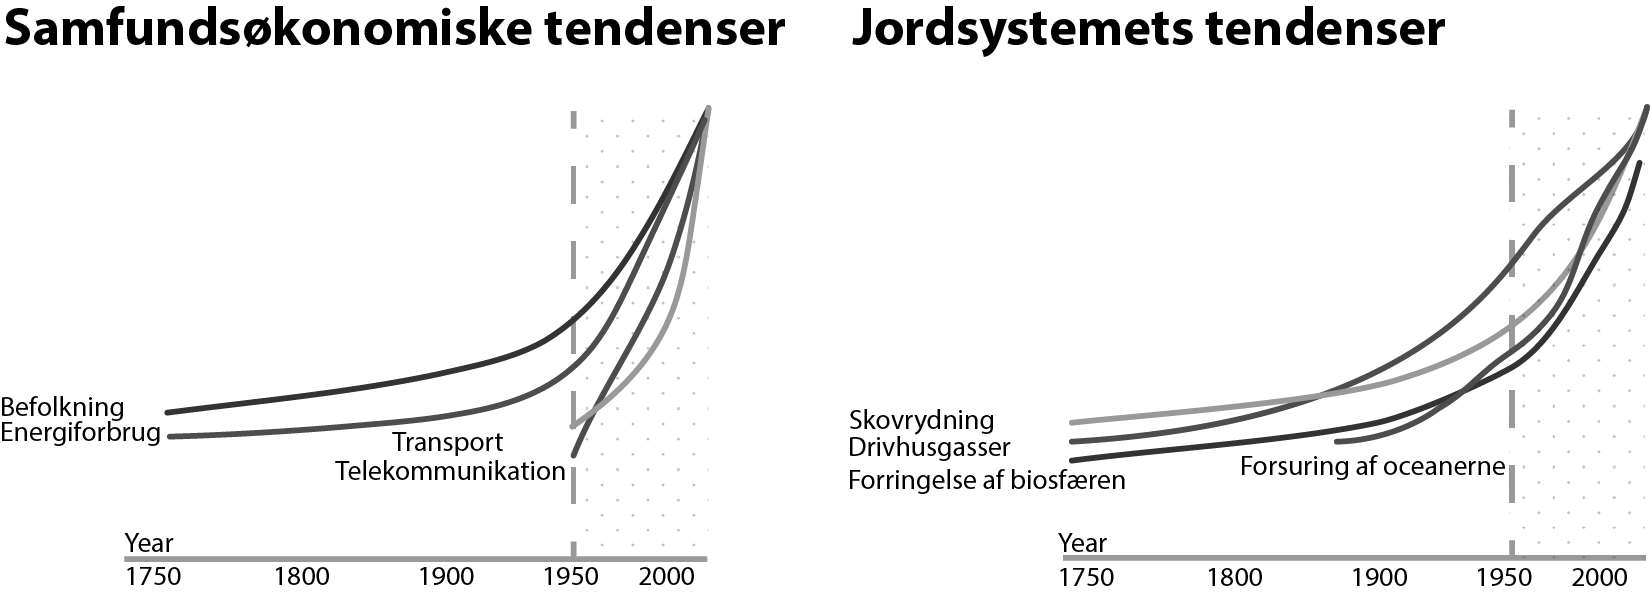
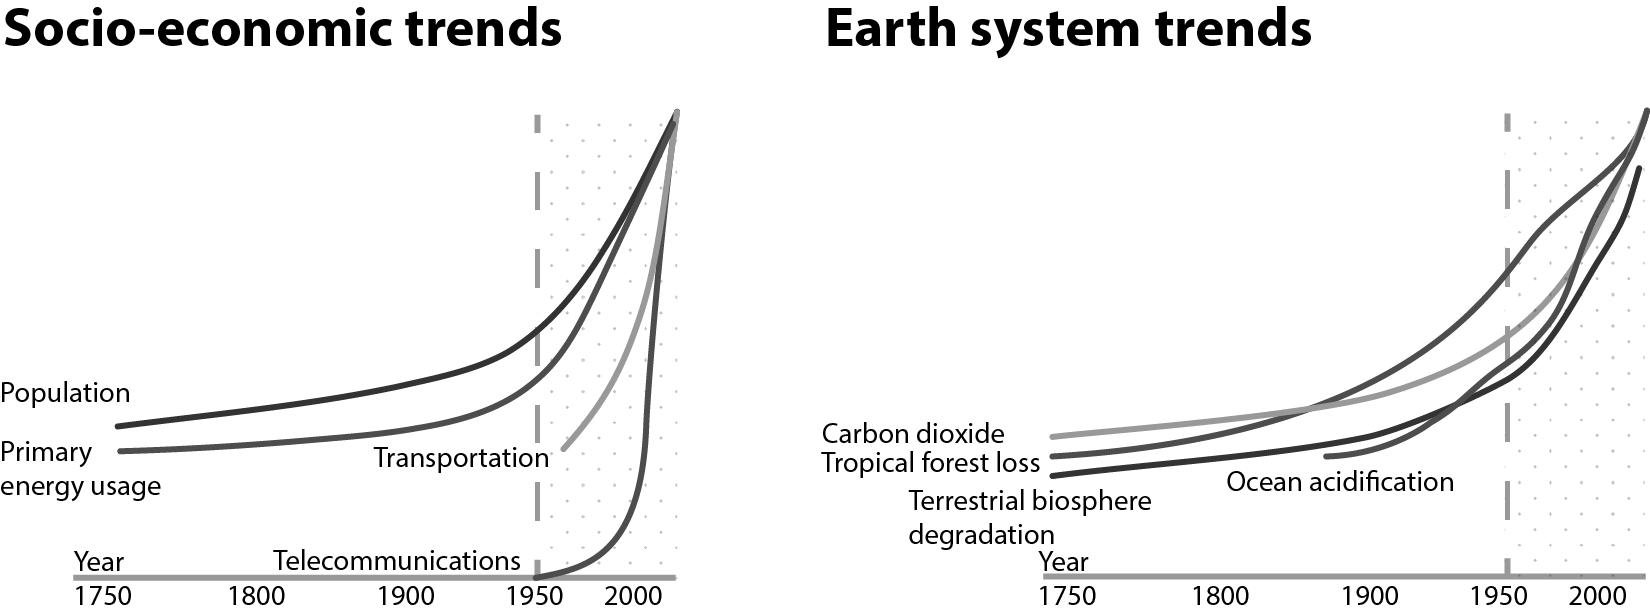
Working on chapter one

diff --git a/manuscript/1-Introduction-to-sustainability.md b/manuscript/1-Introduction-to-sustainability.md
@@ -1,46 +1,47 @@
 # 1. Sustainability: Basic concepts
 
-In order to base our digital work on solid and proven science, we need to understand some selected fundamental concepts of sustainability. In this first chapter, we'll cover key ideas and establish a foundational vocabulary that can enrich our sustainability work.
+In order to base your sustainability work on solid and proven science, you must first understand some selected basic concepts. This first chapter covers the key ideas and vocabulary.
 
-The ambition of the chapter is to give you insight into the great complexity that you must be able to handle when working with sustainability. The concepts span many different scientific disciplines, including biology, geology, physics, chemistry, law, economics and social sciences. When working with sustainability, these different areas are intertwined, which requires a holistic approach from those of us working with the digital aspects of sustainability.  
- 
+The goal of this chapter is to give you a glimpse of the great complexity which we must be able to handle when working with sustainability. The concepts span many different scientific disciplines, including biology, geology, physics, chemistry, law, economics, and social sciences. 
+
+When working with sustainability, these different disciplines are intertwined, requiring a holistic approach from those of us working with the digital aspects of sustainability.
 ## Why is sustainability important right now?
 
-### The age of the Anthropocene
-The Anthropocene is the name given to the epoch from the 20th century onwards, where human activities are now affecting life on Earth to such an extent that it is causing both local and global changes in the state of the Earth.  The human emission of greenhouse gases is a case in point. The consequences are enormous for soil, plant and animal life, and thus also human life.
+Let's go through some weighty theories that empasize the urgency of taking action for sustainability in all areas, including the digital.
+### 🛣️ This is the age of the Anthropocene
+The Anthropocene is the name of en epoch, beginning in the 20th century, in which human activities are affecting life on Earth to such an extent that they are causing both local and global changes in the global state of the Earth.  
 
-In the past, geological processes had the greatest influence on life on Earth and the shape of the planet, but our agriculture, buildings, roads, wars, excavations and other activities are changing the landscape to a degree comparable to the major geological impacts on Earth in the past, such as major volcanic eruptions and meteor impacts. The Anthropocene Age heralds new times where humanity is not only responsible for its own future, but also holds the future of the entire planet in its hands.
+In the past, geological processes had the greatest influence on life on Earth and the properties of the planet surface, but our agriculture, buildings, roads, wars, excavations and other activities are changing the landscape. 
 
-### Sixth great mass extinction
-In biology and ecology, we are also witnessing a historical and global event that scientists call the sixth great mass extinction , a process in which the majority of the Earth's different animal species go extinct (within centuries). This can be compared to the period when the dinosaurs went from being the dominant species on Earth to mass extinction.
+This change is comparable to the major geological impacts on Earth in the past, such as major volcanic eruptions and meteor impacts. The Anthropocene Age heralds new times where humanity is not only responsible for its own future, but also holds the future of the entire planet in its hands.
 
-The Sixth Great Extinction is expected to be as pervasive for nature as the dinosaur extinction was, with the risk that a third of all animal species could disappear (Urban 2024). As with the Anthropocene Age, human activity is also the cause of the sixth great mass extinction. This too is happening right now.
-### The Great Acceleration
+The human emission of greenhouse gases is one example, and the consequences for soil, plant and animal life, and thus for human life, are enormous.
+### Sixth  mass extinction on the horizon 🦖
+In biology and ecology, we are also witnessing a historic and global event that scientists describe as the sixth great mass extinction, a process in which a great part of the Earth's different animal species become extinct within decades or centuries. The time we live in can be compared to the time when the dinosaurs went from being the dominant species on Earth to mass extinction.
+
+The sixth mass extinction is expected to be as pervasive for nature as the dinosaur extinction was, with the risk that a third of all animal species could disappear ([Urban 2024](https://www.science.org/doi/10.1126/science.adp4461)). As with the Anthropocene Age, human activity is also the cause of the sixth great mass extinction. This too is happening right now.
+### 🏎️ We are pushing the Great Acceleration 
 
 ![The Great Acceleration](resources/1.1.png "The Great Acceleration is the theory that we live in a time when many different global trends are accelerating at an unprecedented rate. Notice how development takes off after the 1950s. Source: Steffen et al. 2015.")
 
-Some scientists believe that global change began with industrialization in the 1800s, but only accelerated after the 1950s. That global change is accelerating and that we are accelerating the activities that are changing our planet, such as the release of greenhouse gases and the destruction of various biotopes (Steffen et al. 2015).
+Some scientists theorize, that a global change began with industrialization in the 1800s, and accelerated rapidly after the 1950s. Global change is accelerating and  we are accelerating the activities that are changing our planet, such as the release of greenhouse gases and the destruction of various biotopes ([Steffen et al. 2015](https://doi.org/10.1177/2053019614564785)).
 
-The theory is called the Great Acceleration , and the researchers behind the theory see the Earth as a system , where everything is connected and where one change requires another, as shown in Figure 1. Over the past many thousands of years, the Earth's systems have been able to balance between states that were mainly favorable to life on Earth, but many fear that the Earth's systems will become seriously out of balance if we continue to accelerate development.
+This theory is called the Great Acceleration, and the researchers behind the theory see the Earth as a system where everything is interconnected and one change escalates another, as shown in Figure 1. Over the past many thousands of years, the Earth's systems have been able to balance between states that have been mostly favorable to life on Earth, but many fear that the Earth's systems will become seriously out of balance if we continue to accelerate development.
+### Pushing the planetary boundaries 🌎 
+The world's population is growing, our industrial activity and consumption is growing, and economies are also growing year after year - but the planet's size and resources limit this perpetual growth. Planetary boundaries is a concept developed by researchers from Stockholm University that describes the nine major planetary subsystems that regulate the Earth's systemic stability and resilience ([Stockholm Resilience Centre 2012](https://www.stockholmresilience.org/research/planetary-boundaries.html)).
 
-### The planetary boundaries
-The world's population is growing, our industrial activity and consumption is growing, and economies are also growing year after year - but the planet's size and resources limit this perpetual growth.
+Scientists have estimated limits for Earth's planetary subsystems in which humanity can continue to evolve and thrive for generations to come, without causing irreparable damage to Earth as we know it. If the limits are exceeded, the systems may become unbalanced, leading the planet to a new and different reality. 
 
-Planetary boundaries is a concept developed by researchers from Stockholm University that describes the nine major planetary subsystems that regulate the Earth's systemic stability and resilience ( Stockholm Resilience Centre 2012 ).
-
-Scientists have estimated thresholds for these planetary subsystems within humanity can continue to evolve and thrive for generations to come, without causing irreparable damage to Earth as we know it.
-
-If the limits are exceeded, systems can become unbalanced, resulting in the planet changing to a new and different reality. Developments in recent decades show that we are unfortunately exceeding more and more of these limits for sustainable global development and that there is a risk of serious global repercussions if we do not start respecting these limits as soon as possible.
-
-### Climate change
-Current global development is neither durable nor sustainable. In the coming decades, we must turn all industrial (and digital) development in a sustainable direction to enable people to live the good life. We must be able to continuously improve and expand our world without fearing the long-term consequences of our actions in the form of drought, flooding, destruction of rainforests and landscapes, major political challenges, displacement, loss of life. We have an ethical obligation to protect the nature that is our origin and our future.
+Developments in recent decades show that, unfortunately, we are increasingly exceeding these limits for sustainable global development, and that there is a risk of serious global consequences if we do not begin to respect these limits as soon as possible.
+### Climate change 🌪️
+Current global development is neither durable nor sustainable. In the coming decades, we must turn all industrial (and digital) development in a sustainable direction to enable people to live a good life. We must be able to continuously improve and develop our world without fearing the long-term consequences of our actions in the form of droughts, floods, destruction of rainforests and landscapes, major political challenges, migration, and loss of life. We have an ethical obligation to protect nature, which is our origin and our future.
 
 With the help of scientists who continuously monitor this trend, a number of actions are underway globally that aim to change the trend to something more sustainable. But we will need every effort. That's why it's important that we incorporate sustainability into all our activities - including digital ones.
 
 ### Information technology and digitization
 Information technology and digitization are amazing entities that day after day surprise us with the latest inventions, opportunities and challenges, shedding light on new aspects of our everyday lives - and our existence.
 
-Social media, virtual worlds, sensor networks, autonomous agents, artificial intelligence, generative AI, machine learning, Internet of Things (IoT ), data science.. All these IT concepts have emerged in recent years and are still evolving - while changing our world.
+Social media, virtual worlds, sensor networks, autonomous agents, artificial intelligence, generative AI, machine learning, Internet of Things (IoT), data science.. All these IT concepts have emerged in recent years and are still evolving - while changing our world.
 
 Modern IT is accelerating science and research, and the computing power of processors and the efficiency of algorithms is growing year after year. It is now the pace of human cognition that is limiting the speed of development.
 
@@ -65,9 +66,9 @@ We can see sustainability as a path towards a brighter and more stable world bot
 
 Sustainable development helps us avoid major disasters in the future by addressing problems in the present. That's why sustainability requires action from us today, both for the future, for ourselves and for the world around us.
 
-There are different definitions of sustainability, but one of the newer and more recognized definitions comes from the UN , which in 1983 established a World Commission on Environment and Development headed by the then Norwegian Prime Minister Gro Harlem Brundtland. The Commission's work resulted in a publication entitled Our Common Future - The Brundtland Commission Report on Environment and Development. 
+There are different definitions of sustainability, but one of the newer and more recognized definitions comes from the UN, which in 1983 established a World Commission on Environment and Development headed by the then Norwegian Prime Minister Gro Harlem Brundtland. The Commission's work resulted in a publication entitled Our Common Future - The Brundtland Commission Report on Environment and Development. 
 
-The report defines sustainable development as *"development that meets the needs of the present without compromising the ability of future generations to meet their own needs"* (Brundtland Commission 1987: XX ). This definition is a good starting point for our work, but in the following we will also look at sustainable development from other angles. If sustainability is something that protects the possibilities of future generations, what is the opposite? Let's take a look at "unsustainability".
+The report defines sustainable development as *"development that meets the needs of the present without compromising the ability of future generations to meet their own needs"* (Brundtland Commission 1987: XX). This definition is a good starting point for our work, but in the following we will also look at sustainable development from other angles. If sustainability is something that protects the possibilities of future generations, what is the opposite? Let's take a look at "unsustainability".
 ### Unsustainability
 Unsustainable products and services are defined by the fact that they often have serious, unwanted and far-reaching adverse impacts.
 
@@ -104,7 +105,7 @@ Let's look at an example from the digital world where the above comes to life: a
 
 The extraction of the minerals used in smartphones involves environmental pollution, child labor, deforestation and health problems associated with working in mines in Africa. Assembly line work in Asia can take place in poor working conditions. Not least, the applications that run on smartphones can have a bad impact on smartphone users. But this is not something we think about. When owning a smartphone has become commonplace, it's hard to consider the long-term consequences because it's relatively vague and far removed from your own reality. So it's easier not to think about it.
 
-In an ideal world, the manufacturer and legislation would try to concretize the resulting problems and try to do something about them. The Dutch smartphone manufacturer Fairphone , for example, does this by visiting the cobalt mines in Congo and launching a program to improve working conditions in the mines based on their experiences during the visit (Angela 2023). Are they obligated to do so? No, they are not. They are doing it primarily for the sake of the Congolese, and in return, Fairphone can position its smartphone as a greener and fairer phone. However, these actions are not free and their phones are therefore relatively expensive compared to the competition.
+In an ideal world, the manufacturer and legislation would try to concretize the resulting problems and try to do something about them. The Dutch smartphone manufacturer Fairphone, for example, does this by visiting the cobalt mines in Congo and launching a program to improve working conditions in the mines based on their experiences during the visit (Angela 2023). Are they obligated to do so? No, they are not. They are doing it primarily for the sake of the Congolese, and in return, Fairphone can position its smartphone as a greener and fairer phone. However, these actions are not free and their phones are therefore relatively expensive compared to the competition.
 
 ### Recognizing and accepting risks for the future
 It is clear that we cannot fully guard against all future unintended consequences when developing new solutions. By its very nature, you cannot devise and develop measures against risks that you are not able to foresee.
@@ -127,7 +128,7 @@ Are Velux's initiatives really having an impact on a global scale or are they dr
 
 If Velux really succeeds in eliminating 100% of its future greenhouse gas emissions, then the window manufacturer is definitely a climate-friendly company. But that doesn't mean that the company has become a "sustainable company" overnight. The company must also address other dimensions of sustainability in order to start calling itself sustainable.
 
-When a company sends out marketing communications about its green initiatives, there is always a danger that the company's brand is portrayed as more green than it really is. It is not always easy to distinguish between sustainability projects and greenwashing , i.e. empty green promises without substance behind the communication.
+When a company sends out marketing communications about its green initiatives, there is always a danger that the company's brand is portrayed as more green than it really is. It is not always easy to distinguish between sustainability projects and greenwashing, i.e. empty green promises without substance behind the communication.
 
 In the case of Velux, is this a real environmental initiative with significant impact, or is it greenwashing ? Only time will tell.
 
@@ -139,7 +140,7 @@ Every year, in an ESG report, companies publish information on how they apply up
 
 A good example of greenwashing is "biogasoline ", which you can fill up at gas stations around the country. Here, 5% or 10% ethanol (alcohol) is mixed into the gasoline and called biogasoline, even though it is still 90-95% fossil, black gasoline. There is a lack of proportionality between the measure (mixing gasoline with ethanol) and the publicity the product receives. "Biofuel" sounds like some kind of environmentally friendly gasoline, but it's not. In reality, it's black, fossil gasoline that has been "cleaned up" with the addition of ethanol.
 
-Detecting and avoiding greenwashing is not easy , and there are proposals at EU level to eventually regulate green marketing. We hope that by the time you read this book, this work will have progressed so that greenwashing becomes less of a problem when consumers want to choose green products over "black" ones.
+Detecting and avoiding greenwashing is not easy, and there are proposals at EU level to eventually regulate green marketing. We hope that by the time you read this book, this work will have progressed so that greenwashing becomes less of a problem when consumers want to choose green products over "black" ones.
 
 ### Ecology and ecosystems
 Other important concepts in sustainability work are ecology and ecosystems . In Danish we associate the word ecology with something that can be bought in a supermarket. Nevertheless, the word ecology denotes a scientific direction that examines "the relationships between living organisms and their surroundings" (Madsen 2021). Ecology deals with systems of living organisms and their surroundings, called ecosystems.
@@ -184,11 +185,11 @@ Nature teaches us that sustainable systems are built on different cycles : cycle
 
  ![Data center](1.5.png "Data centers can operate sustainably by using renewable energy, reusing waste heat and ensuring hardware and materials are recycled. Circular solutions reduce resource consumption and contribute to a more sustainable future.")
  
-Life on earth is built on circular processes , as Figure 1.5 shows. Our ancestors for millennia followed the rhythm of nature: sowing, fertilizing, harvesting and starting over year after year. Not all production was circular, but there were few people on earth and the earth's resources such as water, forest, oil and iron seem to have been inexhaustible. It was always possible to get new supplies. Today, these supplies have come under severe pressure. We have become more human, and we are taking more of the earth's resources - and on a global scale, this is growing at a pace that is reaching planetary boundaries.
+Life on earth is built on circular processes, as Figure 1.5 shows. Our ancestors for millennia followed the rhythm of nature: sowing, fertilizing, harvesting and starting over year after year. Not all production was circular, but there were few people on earth and the earth's resources such as water, forest, oil and iron seem to have been inexhaustible. It was always possible to get new supplies. Today, these supplies have come under severe pressure. We have become more human, and we are taking more of the earth's resources - and on a global scale, this is growing at a pace that is reaching planetary boundaries.
 
-We have good reason to fear that we will run out of more and more resources if we don't get better at developing new technologies and business models based on circular processes , where the energy of raw materials is recycled. In digital practice, this can be something as simple as using renewable energy or taking responsibility for ensuring that all electronic waste is sent to companies that can effectively recycle it. In theory, the vast majority of e-scrap (e-waste) can be recycled.
+We have good reason to fear that we will run out of more and more resources if we don't get better at developing new technologies and business models based on circular processes, where the energy of raw materials is recycled. In digital practice, this can be something as simple as using renewable energy or taking responsibility for ensuring that all electronic waste is sent to companies that can effectively recycle it. In theory, the vast majority of e-scrap (e-waste) can be recycled.
 
-We can be inspired by nature when designing digital products. An effective way to create sustainable processes is through cycles , where energy and materials can circulate over and over again without anything being deposited or disappearing from the system. You could say that sustainable processes are circular processes that can be repeated many times without accumulating large amounts of waste or waste energy. Working with sustainability is about developing the best possible circular processes.
+We can be inspired by nature when designing digital products. An effective way to create sustainable processes is through cycles, where energy and materials can circulate over and over again without anything being deposited or disappearing from the system. You could say that sustainable processes are circular processes that can be repeated many times without accumulating large amounts of waste or waste energy. Working with sustainability is about developing the best possible circular processes.
 
 ### Greenhouse gases and climate change
 Fossil fuels (coal, oil, gas) cannot be considered sustainable energy sources because they are not part of a circular cycle and because they pollute the atmosphere with greenhouse gases. Even before the turn of the millennium, scientists began warning of global warming due to greenhouse gas emissions from fossil fuels.
@@ -208,7 +209,7 @@ When we look at a gasoline car, we can observe the emission of greenhouse gases 
 
 ![Scopes](1.7.png "Overview of scope 1, 2 and 3 emissions: direct and indirect greenhouse gas emissions in the company's value chain, as defined by the GHG Protocol. Source: Reproduced with permission from Climaider.com.)
 
-When calculating the CO2 emissions of a product, service or company, we can categorize the emissions using the green house gas protocol or GHG protocol  , which can quantify direct and indirect emissions from a company's activities. GHG distinguishes between three types of CO2 emissions (Confederation of Danish Industry 2022), which you can see illustrated in figure 7:
+When calculating the CO2 emissions of a product, service or company, we can categorize the emissions using the green house gas protocol or GHG protocol , which can quantify direct and indirect emissions from a company's activities. GHG distinguishes between three types of CO2 emissions (Confederation of Danish Industry 2022), which you can see illustrated in figure 7:
 
 - Scope 1 is direct, operational emissions that occur in an organization directly at the organization's location. Examples include emissions in buildings, vehicles and machinery.
   
@@ -263,10 +264,10 @@ Below we will unfold a range of perspectives and methods, each seeking to reconc
 ### Economic growth and sustainability
 It is a guiding principle of economic policy that growth is good. Companies can make more profit, more jobs are created and more taxes are collected when the economy grows. If there is no economic growth in a country, alarm bells go off. It's time to tighten belts, make cuts and shed jobs for lack of funding - and hurry to get out of the downward spiral of recession. And the danger is real, there are many examples in history where a sustained recession has caused countries to go bankrupt, resulting in severe social problems.
 
-Most countries' economic policies aim for the highest possible economic growth year after year, because then the country will be richer and there will be more money to run society. The problem is that if you only think about next year's or next quarter's growth, you're not thinking long-term - and you're not thinking sustainably at all. Instead, you are amplifying the great acceleration , which leads to us outgrowing the planetary boundaries.
+Most countries' economic policies aim for the highest possible economic growth year after year, because then the country will be richer and there will be more money to run society. The problem is that if you only think about next year's or next quarter's growth, you're not thinking long-term - and you're not thinking sustainably at all. Instead, you are amplifying the great acceleration, which leads to us outgrowing the planetary boundaries.
 
 It could be said that the traditional understanding of economic growth stands in the way of sustainable development in society. In a 2021 briefing, the European Environment Agency writes that:
-(...) a long-term, absolute decoupling of economic growth from environmental pressures and impacts is unlikely to be achieved on a global scale; therefore, societies need to rethink what is meant by growth and progress and their importance for global sustainability. (European Environment Agency 2021 )
+(...) a long-term, absolute decoupling of economic growth from environmental pressures and impacts is unlikely to be achieved on a global scale; therefore, societies need to rethink what is meant by growth and progress and their importance for global sustainability. (European Environment Agency 2021)
 
 In recent years, digital companies have shown that they can generate huge economic growth. In a relatively short time, software companies like Google, Facebook and Microsoft could grow into the world's largest companies because they could develop great software once and sell it to the entire code base without much additional cost.
 
@@ -277,7 +278,7 @@ It's interesting to think that people are happy to pay software licenses for Mic
 ### Financial and non-financial indicators
 In a holistic approach to business, it's not enough to look at financial indicators alone, you need to view business operations in a broader sustainability perspective. How does the company interact with the surrounding environment and society? How do the company's activities affect future generations?
 
-Sustainable business operations should also look at metrics that are not directly measured in dollars and cents. These figures, the non-financial indicators , can give us an insight into how energy, materials and human capital flow in and out of the company. The non-financial indicators measure the value creation of the company that cannot be directly tracked in the financial figures. This could be customer satisfaction, employee satisfaction, energy efficiency , waste recycling , innovation speed, CO2 emissions, etc. The non-financial indicators are used when companies need to highlight sustainability aspects of their business operations and report on their environmental and social impact.
+Sustainable business operations should also look at metrics that are not directly measured in dollars and cents. These figures, the non-financial indicators, can give us an insight into how energy, materials and human capital flow in and out of the company. The non-financial indicators measure the value creation of the company that cannot be directly tracked in the financial figures. This could be customer satisfaction, employee satisfaction, energy efficiency, waste recycling, innovation speed, CO2 emissions, etc. The non-financial indicators are used when companies need to highlight sustainability aspects of their business operations and report on their environmental and social impact.
 
 ### ESG and CSR
 
@@ -304,7 +305,7 @@ As you read earlier in this chapter, sustainability is often linked to various c
 
 According to the Ellen MacArthur Foundation, circular economy can be defined as a system where materials never become waste and nature is regenerated. 
 
-In a circular economy, products and materials are kept in circulation through processes such as maintenance, reuse , refurbishment, remanufacturing, recycling and composting. The circular economy tackles climate change and other global challenges, such as biodiversity loss, waste and pollution, by decoupling economic activity from the consumption of finite resources. (Ellen MacArthur Foundation 2024)
+In a circular economy, products and materials are kept in circulation through processes such as maintenance, reuse, refurbishment, remanufacturing, recycling and composting. The circular economy tackles climate change and other global challenges, such as biodiversity loss, waste and pollution, by decoupling economic activity from the consumption of finite resources. (Ellen MacArthur Foundation 2024)
 
 The coming decades call for the production of information technology to become so circular that the use and reuse of, for example, a mobile phone has no greater environmental impact than picking a fruit from a tree. The life cycle of our IT equipment must be carefully designed to follow the "cradle to cradle " (cradle to cradle) principle. The cradle to cradle concept is that end-of-life products should form the basis for new ones, without becoming waste (Hauschild 2021). While a life cycle in the traditional sense refers to a cradle-to-grave process, the cradle-to-cradle concept is without a "grave" because the end of one product becomes the beginning of a new one. In other words, the materials that go into the production of our hardware in digital systems must be reused all the way to the creation of new products.
 
@@ -323,7 +324,7 @@ It is not enough for individuals to live sustainably or for companies to show co
 It is precisely the collaboration between companies and international organizations that will take responsibility for the UN 's Sustainable Development Goals. This applies to production conditions and the distribution of goods and services - also digitally. In the Western world, it is primarily companies' activities that have the greatest impact on climate and society.
 
 ### UN 's Global Goals
-The United Nations (UN ) serves as an umbrella organization for all countries in the world, and in recent decades the UN has begun to focus on various sustainability issues. The 17 Sustainable Development Goals (SDGs) adopted by the UN in 2015 commit all UN member states to work on concrete actions to achieve a better and more sustainable modern world, and the SDGs define a good framework for what we now consider to be sustainable development on a global scale:
+The United Nations (UN) serves as an umbrella organization for all countries in the world, and in recent decades the UN has begun to focus on various sustainability issues. The 17 Sustainable Development Goals (SDGs) adopted by the UN in 2015 commit all UN member states to work on concrete actions to achieve a better and more sustainable modern world, and the SDGs define a good framework for what we now consider to be sustainable development on a global scale:
 1.	Abolish poverty. Abolish all forms of poverty and ensure access to basic resources for all.
 2.	Stop hunger. End hunger, improve nutrition and sustainable food production.
 3.	Health and well-being. Reduce maternal and child mortality, fight epidemics and promote health.
@@ -354,14 +355,14 @@ Individuals and companies already have good opportunities to work with more or l
 
 A concrete example of legislation that promotes sustainability is the Waste Order, which obliges all Danish municipalities to sort waste into nine different categories (Danish EPA 2024). As a result, waste sorting is now everyday practice for most people. The rationale behind waste sorting is easy to see: Plastic, metal and glass waste should be recycled and turned into new products - so we don't run out of raw materials. Food waste becomes energy (biogas) that can replace fossil fuels and the residual product is used as fertilizer. Still, there is some resistance to waste sorting, which shows how difficult it can be to convince everyone to do the right thing.
 
-Denmark has a long tradition of being at the forefront of soft sustainability values such as education, health, decent working conditions and food safety. In addition, there are a wide range of regulations from the EU to promote sustainable development ( Erhvervsstyrelsen 2024 b). For example, all major EU companies must comply with the CSRD (Corporate Sustainability Reporting Directive), which is a set of rules on corporate sustainability reporting. The purpose of the legislation is to make it visible how companies live up to their ESG commitments and how they are continuously creating positive change. Other examples of regulation at EU level include EcoDesign (Danish Standard 2024), which sets requirements for environmentally friendly design of products, and the Green Claims Directive, which attempts to standardize what can be marketed as green products to help companies and consumers avoid greenwashing . 
+Denmark has a long tradition of being at the forefront of soft sustainability values such as education, health, decent working conditions and food safety. In addition, there are a wide range of regulations from the EU to promote sustainable development (Erhvervsstyrelsen 2024 b). For example, all major EU companies must comply with the CSRD (Corporate Sustainability Reporting Directive), which is a set of rules on corporate sustainability reporting. The purpose of the legislation is to make it visible how companies live up to their ESG commitments and how they are continuously creating positive change. Other examples of regulation at EU level include EcoDesign (Danish Standard 2024), which sets requirements for environmentally friendly design of products, and the Green Claims Directive, which attempts to standardize what can be marketed as green products to help companies and consumers avoid greenwashing . 
 
 The introduction of sustainability regulation at both national and EU level is positive because it provides safe guidelines and creates incentives for all companies to embrace more sustainable practices. On the other hand, regulation can feel slow and cumbersome as it is associated with more bureaucracy and takes a long time to comply with.
 
 And we must not forget that even in the very best scenario, where the regulations work as intended and the EU becomes both sustainable and climate neutral over a number of years, we are "only" 448 million Europeans and thus make up only a small part of the world's total population of eight billion people. We can hope that we can inspire the rest of the world - or learn from the rest of the world, should they overtake us in sustainability efforts.
 
 ### Working conditions, including work-life balance
-Sustainability is not just about the environment and society, it also has many lesser known facets. Individual factors can also have an impact on the sustainability agenda, such as making people (individuals) feel good about their work. "Human resources" is a capitalist approach to business, where people are considered a resource on par with energy, materials and finances. In an unsustainable company where there is no focus on circular processes , human resources can be overexploited, with sad consequences for individuals. Low wages and/or poor working conditions with negative consequences for the individuals who work for the company.
+Sustainability is not just about the environment and society, it also has many lesser known facets. Individual factors can also have an impact on the sustainability agenda, such as making people (individuals) feel good about their work. "Human resources" is a capitalist approach to business, where people are considered a resource on par with energy, materials and finances. In an unsustainable company where there is no focus on circular processes, human resources can be overexploited, with sad consequences for individuals. Low wages and/or poor working conditions with negative consequences for the individuals who work for the company.
 
 In the spirit of sustainability, it is therefore essential that companies also focus on the well-being of their employees, both on a day-to-day basis, but also in the long run. A sustainable labor market is characterized by parameters such as:
 

diff --git a/TODO.md b/TODO.md
@@ -1,9 +1,19 @@
+Frontpage
+https://unsplash.com/photos/a-close-up-view-of-a-patch-of-grass-cn8bE9Tvsac
+Szia Hunor,
 
-- Explain twin transition
-- Find the tone of voice
-- Translate images
-- Migrate stuff to Codeberg
-- Clarify intentions - better introduction! 
+Nagyon tetszik az egyik képed (https://unsplash.com/photos/a-close-up-view-of-a-patch-of-grass-cn8bE9Tvsac) 
+
+Szeretném címlapborítónak használni egy könyvemhez. Szted lehetséges?
+
+Üdv! András
+
+
 - Remove Tweet this book
 
-- Eftergå og link referencer
+- Clarify intentions - better introduction! 
+- Explain twin transition (obs beskrevet senere i kapitlet), digital sustainability, sustainable digital in the intro
+- Add image to chapter 0 from the Illustrator file
+
+- Migrate stuff to Codeberg
+

diff --git a/manuscript/12-Bibliography.md b/manuscript/12-Bibliography.md
@@ -127,9 +127,13 @@ Santini, Z.I., Thygesen, L.C., Andersen, S. et al. (2024). Social media addictio
 Shrimangale, V. (2024). Project Stargate By Microsoft and OpenAI. Medium, June 11. https://medium.com/@shrimangalevallabh789/project-stargate-by-microsoft-and-openai-fe97e41fca57
 Silberman, M.S. & Tomlinson, B. (2010). Precarious Infrastructure and Postapocalyptic Computing. Examining Appropriation, Re-use, and Maintenance for Sustainability, workshop at CHI 2010.
 Sobolev, M. & Lesic, V. (2022). Online Choice Architecture: The Good, The Bad, and The Complicated. CPI, October 31. https://www.competitionpolicyinternational.com/online-choice-architecture-the-good-the-
-Steffen, W., Broadgate, W., Deutsch, L. and others (2015). The trajectory of the Anthropocene: The Great Acceleration. The Anthropocene Review, 2(1), 81-98. https://doi.org/10.1177/2053019614564785
+
+!!OK!! Steffen, W., Broadgate, W., Deutsch, L. and others (2015). The trajectory of the Anthropocene: The Great Acceleration. The Anthropocene Review, 2(1), 81-98. https://doi.org/10.1177/2053019614564785
+
 Stern, B. (2013). The Ethics of Saving Lives With Autonomous Cars Are Far Murkier Than You Think. Wired.Com, 1-7.
-Stockholm Resilience Center (2012). Planetary boundaries. September 19. https://www.stockholmresilience.org/research/planetary-boundaries.html
+
+!!OK!!  Stockholm Resilience Center (2012). Planetary boundaries. September 19, 2024. https://www.stockholmresilience.org/research/planetary-boundaries.html
+
 Strarup, B. (2022). 37 websites under Russian media are now blocked. Mediawatch, March 18. https://mediawatch.dk/Medienyt/Web/article13842095.ece
 SustainableIT.org (n.d.). IT Standards for Environmental, Social, and Governance Sustainability. https://www.sustainableit.org/standards/it-esg-standards
 Switzer, J., Marcano, G., Kastner, R., et al. (2023). Junkyard Computing: Repurposing Discarded Smartphones to Minimize Carbon. Proceedings of the 28th ACM International Conference on Architectural Support for Programming Languages and Operating Systems, Volume 2, 400-412. https://doi.org/10.1145/3575693.3575710
@@ -140,7 +144,9 @@ United Nations (n.d.). Big Data for Sustainable Development. Big Data for Sustai
 United Nations (2024). Global Course 'Is Unsustainable', Secretary-General Stresses to General Assembly, But with Dialogue, Compromise 'We Can Choose the Future We Want'. Meetings Coverage and Press Releases. https://press.un.org/en/2024/sgsm22378.doc.htm (accessed 01.03.25).
 United Nations University (2024). Global E-Waste Surging: Up 21% in 5 Years. Press release, February 20. https://unu.edu/press-release/global-e-waste-surging-21-5-years
 University of Glasgow (n.d.). Low carbon and sustainable computing. School of Computing Science. https://www.gla.ac.uk/schools/computing/research/researchthemes/lowcarbon/ (accessed 09.05.24).
-Urban, M.C. (2024). Climate change extinctions. Science, 386(6726), 1123-1128.
+
+!!OK!! Urban, M.C. (2024). Climate change extinctions. Science, 386(6726), 1123-1128.
+
 U.S. Surgeon General (2023). Social Media and Youth Mental Health. https://www.hhs.gov/sites/default/files/sg-youth-mental-health-social-media-advisory.pdf
 Vanderbauwhede, W. (2023). Frugal Computing - On the need for low-carbon and sustainable computing and the path towards zero-carbon computing. No. arXiv:2303.06642. http://arxiv.org/abs/2303.06642
 Videnskab.dk (2024, June 27). What does green growth mean? And who came up with it? https://videnskab.dk/kultur-samfund/hvad-betyder-groen-vaekst-og-hvem-fandt-paa-det/

diff --git a/manuscript/1_Part-one.md b/manuscript/1_Part-one.md
@@ -1,8 +1,8 @@
-# Part One
+# Part one
 
 *The first three chapters lay the theoretical foundation and provide an overview for working with digital sustainability. Among other things, you will find answers to the following questions:*
 
-	1.	What is sustainability, and why is it particularly important right now?
-	2.	Which concepts are essential when integrating sustainability into digital practices?
-	3.	Why is systems thinking a shared methodology for digital development as well as sustainable development?
-	4.	Where do we currently stand regarding digitalization’s impact on the environment and society?
+1.	What is sustainability, and why is it particularly important right now?
+2.	Which concepts are essential when integrating sustainability into digital practices?
+3.	Why is systems thinking a shared methodology for digital development as well as sustainable development?
+4.	Where do we currently stand regarding digitalization’s impact on the environment and society?

diff --git a/manuscript/4_Part-two.md b/manuscript/4_Part-two.md
@@ -1,4 +1,4 @@
-# PART 2
+# Part two
 
 The second part of the book, chapters 4 to 7, looks ahead and outlines practical approaches on how sustainability can be mastered and promoted in digital projects. Among other things, you'll get answers to the following questions:
 

diff --git a/manuscript/8_Part-three.md b/manuscript/8_Part-three.md
@@ -1,2 +1,2 @@
-# PART 3
+# Part three
 The third and final part of the book discusses sustainability and digitalization from an economic and societal perspective.

diff --git a/manuscript/0-Introduction.md b/manuscript/0-Introduction.md
@@ -1,3 +1,4 @@
+
 # Introduction
 
 __Our society has been sustainable for centuries, but this is not guaranteed to continue in the future. The ongoing development of society has faced significant pressure in our time. It is up to us to change the way we live and work, both in real life and in the digital space.__